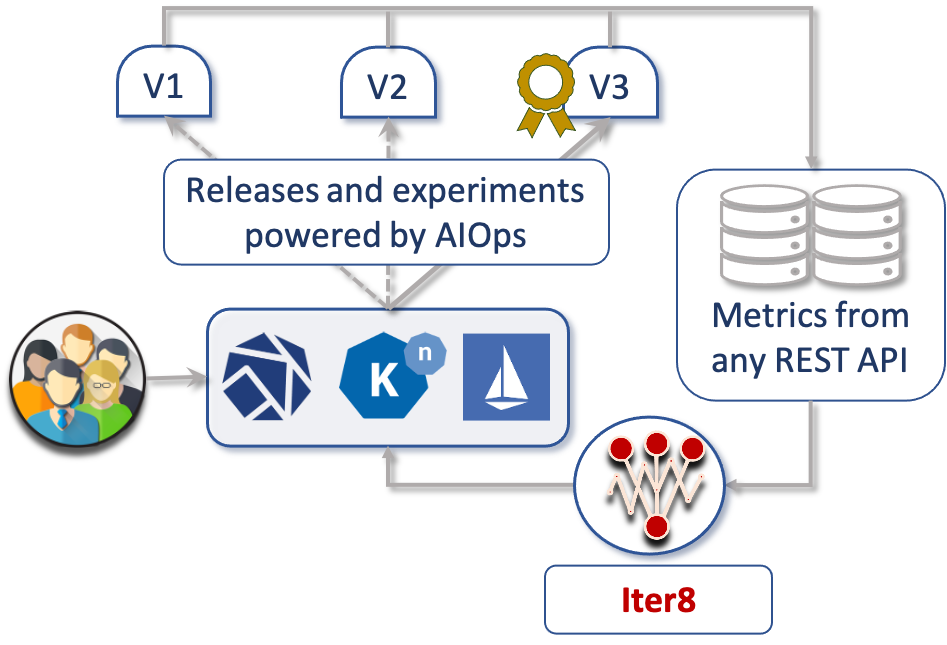
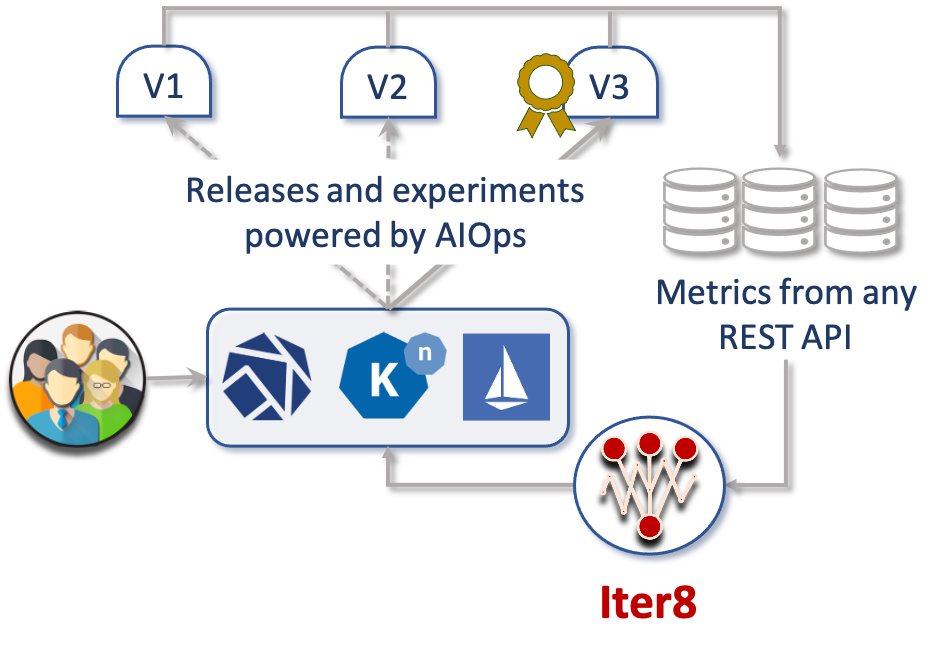
new images

Changed region(s): [[0.0, 0.0, 1.0, 0.9922], [0.3369, 0.093, 0.3675, 0.124]]

diff --git a/mkdocs/src/overrides/main.html b/mkdocs/src/overrides/main.html
@@ -38,8 +38,8 @@
   <meta property="og:url" content="{{ page.canonical_url }}" />
   <meta property="og:image" content="https://iter8.tools/assets/images/banner.png" />
   <meta property="og:image:type" content="image/png" />
-  <meta property="og:image:width" content="1369" />
-  <meta property="og:image:height" content="899" />
+  <meta property="og:image:width" content="1442" />
+  <meta property="og:image:height" content="983" />
 
   <!-- Twitter meta tags -->
   <meta name="twitter:card" content="summary_large_image" />

diff --git a/mkdocs/src/overrides/home.html b/mkdocs/src/overrides/home.html
@@ -69,8 +69,8 @@
           <img
             src="assets/images/illustration.png"
             alt=""
-            width="1012"
-            height="645"
+            width="949"
+            height="662"
             draggable="false"
           >
         </div>
